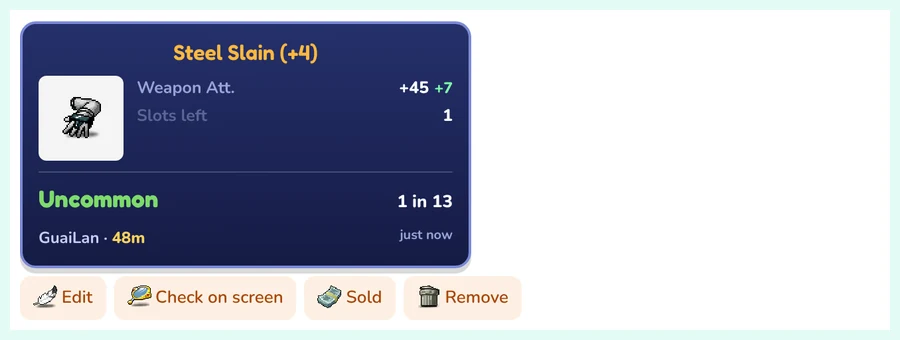
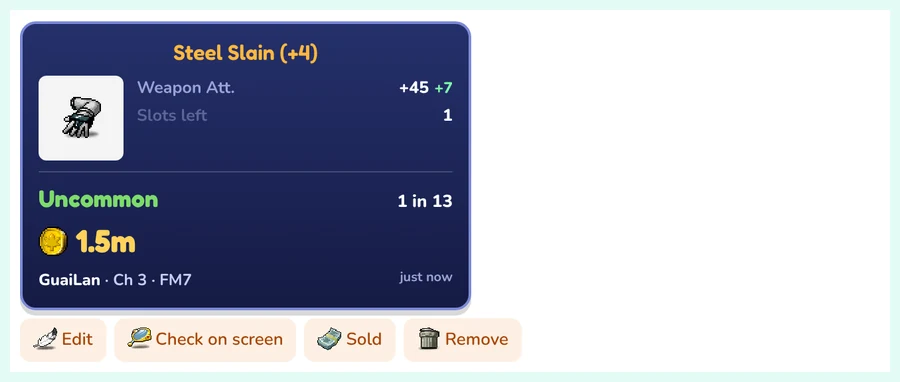
Examples priced at 2M at most; guide frames 5-8 show items with prices
Claude-Session: https://claude.ai/code/session_01YWJchjg2KLfMMoYE3h5SnD

diff --git a/js/app.js b/js/app.js
@@ -1,11 +1,11 @@
-import { iconUrl, DONATE_URL, DISCORD_URL } from "./config.js?v=61f49576";
-import { STATS, STAT_LABEL, statRange, rollAtLeast, finalStats, mesos, readPrice } from "./calc.js?v=61f49576";
-import { rarity, oneInText } from "./rarity.js?v=61f49576";
-import { drawCard, cardBlob } from "./card.js?v=61f49576";
-import { cardInfo, cardLabel, cardFmt } from "./itemcard.js?v=61f49576";
-import { itemSearch } from "./itemsearch.js?v=61f49576";
-import { setupA11y } from "./a11y.js?v=61f49576";
-import { API, api, health, me, googleButton, validIgn } from "./account.js?v=61f49576";
+import { iconUrl, DONATE_URL, DISCORD_URL } from "./config.js?v=ab52bd3e";
+import { STATS, STAT_LABEL, statRange, rollAtLeast, finalStats, mesos, readPrice } from "./calc.js?v=ab52bd3e";
+import { rarity, oneInText } from "./rarity.js?v=ab52bd3e";
+import { drawCard, cardBlob } from "./card.js?v=ab52bd3e";
+import { cardInfo, cardLabel, cardFmt } from "./itemcard.js?v=ab52bd3e";
+import { itemSearch } from "./itemsearch.js?v=ab52bd3e";
+import { setupA11y } from "./a11y.js?v=ab52bd3e";
+import { API, api, health, me, googleButton, validIgn } from "./account.js?v=ab52bd3e";
 
 const $ = (id) => document.getElementById(id);
 const icon = iconUrl;
@@ -539,14 +539,14 @@ function readHash() {
 // ---------- How it works: a short guide that plays real frames from the site ----------
 
 const GUIDE = [
-  ["assets/guide/1.webp?v=5", "1. Pick your item: upload a screenshot of it, or search it, or tap a category and a class to browse."],
-  ["assets/guide/2.webp?v=5", "2. Set its clean stats: what it had before any scroll. A roll above the default makes it rarer."],
-  ["assets/guide/3.webp?v=5", "3. Set the slots left and add the scrolls that passed. Failed ones are worked out for you."],
-  ["assets/guide/4.webp?v=5", "4. See how rare it is, from its natural roll and the way its scrolls passed, and save the card to share it."],
-  ["assets/guide/5.webp?v=5", "5. Post it: sign in with Google and post the item. Selling it? Add a price and where to find you (optional)."],
-  ["assets/guide/6.webp?v=5", "6. Browse items: everyone's posts, with their stats, slots and rarity. Filter by kind, class or stat, newest or rarest first."],
-  ["assets/guide/7.webp?v=5", "7. Tap an item to see its full card and who posted it. Checked on screen: the owner showed the item from the game."],
-  ["assets/guide/8.webp?v=5", "8. Under My items: check it on screen, edit it, mark it sold or remove it."],
+  ["assets/guide/1.webp?v=6", "1. Pick your item: upload a screenshot of it, or search it, or tap a category and a class to browse."],
+  ["assets/guide/2.webp?v=6", "2. Set its clean stats: what it had before any scroll. A roll above the default makes it rarer."],
+  ["assets/guide/3.webp?v=6", "3. Set the slots left and add the scrolls that passed. Failed ones are worked out for you."],
+  ["assets/guide/4.webp?v=6", "4. See how rare it is, from its natural roll and the way its scrolls passed, and save the card to share it."],
+  ["assets/guide/5.webp?v=6", "5. Post it: sign in with Google and post the item. Selling it? Add a price and where to find you (optional)."],
+  ["assets/guide/6.webp?v=6", "6. Browse items: everyone's posts with their price, stats and rarity. Filter by kind, rarity, stat or your own price range."],
+  ["assets/guide/7.webp?v=6", "7. Tap an item to see its full card and who posted it. Checked on screen: the owner showed the item from the game."],
+  ["assets/guide/8.webp?v=6", "8. Under My items: check it on screen, edit it, mark it sold or remove it."],
 ];
 const GUIDE_KEY = "fmcheck-guide-seen";
 let guideStep = 0, guideTimer = null;

diff --git a/js/community.js b/js/community.js
@@ -1,12 +1,12 @@
 // Browse items: scrolled items players posted, as cards with how rare each one is.
-import { STATS, STAT_LABEL, mesos, readPrice } from "./calc.js?v=61f49576";
-import { drawCard, cardBlob } from "./card.js?v=61f49576";
-import { cardInfo, cardLabel, cardFmt, cardDate } from "./itemcard.js?v=61f49576";
-import { rarity, oneInText } from "./rarity.js?v=61f49576";
-import { setupA11y } from "./a11y.js?v=61f49576";
-import { api, health, me, googleButton, signOut, validIgn, esc, ago, place, canSignIn } from "./account.js?v=61f49576";
-import { itemSearch } from "./itemsearch.js?v=61f49576";
-import { DISCORD_URL } from "./config.js?v=61f49576";
+import { STATS, STAT_LABEL, mesos, readPrice } from "./calc.js?v=ab52bd3e";
+import { drawCard, cardBlob } from "./card.js?v=ab52bd3e";
+import { cardInfo, cardLabel, cardFmt, cardDate } from "./itemcard.js?v=ab52bd3e";
+import { rarity, oneInText } from "./rarity.js?v=ab52bd3e";
+import { setupA11y } from "./a11y.js?v=ab52bd3e";
+import { api, health, me, googleButton, signOut, validIgn, esc, ago, place, canSignIn } from "./account.js?v=ab52bd3e";
+import { itemSearch } from "./itemsearch.js?v=ab52bd3e";
+import { DISCORD_URL } from "./config.js?v=ab52bd3e";
 
 const $ = (id) => document.getElementById(id);
 // a small MapleStory icon next to a label (assets/ui/)

diff --git a/js/admin.js b/js/admin.js
@@ -1,10 +1,10 @@
 // The price list page (admins): average prices of scrolls and clean items that estimates use when a player
 // leaves a price empty. Stored on the server (/api/prices); anyone can read them, only admins can change them.
-import { mesos, readPrice, UNITS } from "./calc.js?v=61f49576";
-import { setupA11y } from "./a11y.js?v=61f49576";
-import { api, me, googleButton, esc, canSignIn } from "./account.js?v=61f49576";
-import { iconUrl, priceLink } from "./config.js?v=61f49576";
-import { findPrices } from "./priceimport.js?v=61f49576";
+import { mesos, readPrice, UNITS } from "./calc.js?v=ab52bd3e";
+import { setupA11y } from "./a11y.js?v=ab52bd3e";
+import { api, me, googleButton, esc, canSignIn } from "./account.js?v=ab52bd3e";
+import { iconUrl, priceLink } from "./config.js?v=ab52bd3e";
+import { findPrices } from "./priceimport.js?v=ab52bd3e";
 
 const $ = (id) => document.getElementById(id);
 setupA11y();

diff --git a/js/shot.js b/js/shot.js
@@ -1,8 +1,8 @@
 // Reading a picture of an in-game item window (a screenshot, or a phone photo of the screen) in this browser.
 // The picture is never uploaded: it's read here with text recognition (js/verify.js loads the reader),
 // then js/itemread.js works out the item, its stats, slots left and the likeliest scrolls.
-import { recognizer } from "./verify.js?v=61f49576";
-import { parseWindow, findItem, guessScrolls } from "./itemread.js?v=61f49576";
+import { recognizer } from "./verify.js?v=ab52bd3e";
+import { parseWindow, findItem, guessScrolls } from "./itemread.js?v=ab52bd3e";
 
 // The picture drawn at a size the reader likes, as three versions: as it is (screenshots), white text only
 // (the stats, for photos of a screen) and yellow text only (the item's name).

diff --git a/index.html b/index.html
@@ -32,7 +32,7 @@
   <link rel="apple-touch-icon" href="assets/favicon-180.png" />
   <link rel="preload" href="assets/fonts/fredoka-latin-700-normal.woff2" as="font" type="font/woff2" crossorigin />
   <link rel="preload" href="assets/fonts/nunito-latin-600-normal.woff2" as="font" type="font/woff2" crossorigin />
-  <link rel="stylesheet" href="css/style.css?v=61f49576" />
+  <link rel="stylesheet" href="css/style.css?v=ab52bd3e" />
 </head>
 <body>
   <a class="skip" href="#itemSearch">Skip to posting an item</a>
@@ -280,6 +280,6 @@ natural roll = product over the stats above default</pre>
   </div>
 
 
-  <script type="module" src="js/app.js?v=61f49576"></script>
+  <script type="module" src="js/app.js?v=ab52bd3e"></script>
 </body>
 </html>

diff --git a/community.html b/community.html
@@ -23,7 +23,7 @@
   <link rel="apple-touch-icon" href="assets/favicon-180.png" />
   <link rel="preload" href="assets/fonts/fredoka-latin-700-normal.woff2" as="font" type="font/woff2" crossorigin />
   <link rel="preload" href="assets/fonts/nunito-latin-600-normal.woff2" as="font" type="font/woff2" crossorigin />
-  <link rel="stylesheet" href="css/style.css?v=61f49576" />
+  <link rel="stylesheet" href="css/style.css?v=ab52bd3e" />
 </head>
 <body>
   <a class="skip" href="#listings">Skip to the items</a>
@@ -194,6 +194,6 @@
   </div>
 
 
-  <script type="module" src="js/community.js?v=61f49576"></script>
+  <script type="module" src="js/community.js?v=ab52bd3e"></script>
 </body>
 </html>

diff --git a/js/verify.js b/js/verify.js
@@ -1,8 +1,8 @@
 // "Check it on screen": the seller shares the game window (the browser asks them first), hovers the item,
 // and this page reads the item's window with text recognition. Everything runs in this browser:
 // the picture is never uploaded. Only the numbers read (stats and slots left) go to FMCheck to compare.
-import { api, esc } from "./account.js?v=61f49576";
-import { GAME_LABEL, GAME_ORDER } from "./itemcard.js?v=61f49576";
+import { api, esc } from "./account.js?v=ab52bd3e";
+import { GAME_LABEL, GAME_ORDER } from "./itemcard.js?v=ab52bd3e";
 
 const $ = (id) => document.getElementById(id);
 const VENDOR = new URL("../assets/vendor/tesseract/", import.meta.url).href;

diff --git a/src/community.js b/src/community.js
@@ -56,7 +56,7 @@ const FLAG_MIN_AGE = 3 * DAY;      // reports count only from accounts this old,
 // rank below real items, are never posted or featured for real, and stop showing once DEMO_UNTIL real items are up.
 // Setting DEMO=off hides them at once.
 const DEMO_UNTIL = 30;
-const DEMO_VERSION = 5; // bump when src/demo.json changes
+const DEMO_VERSION = 6; // bump when src/demo.json changes
 const CROWD_MIN = 3;     // different players (per day) before their typed price goes in the list
 const CROWD_DAYS = 30;   // typed prices older than this are dropped
 const HIDE_AT_FLAGS = 3;           // reports from different players that hide an item

diff --git a/admin.html b/admin.html
@@ -15,7 +15,7 @@
   <link rel="apple-touch-icon" href="assets/favicon-180.png" />
   <link rel="preload" href="assets/fonts/fredoka-latin-700-normal.woff2" as="font" type="font/woff2" crossorigin />
   <link rel="preload" href="assets/fonts/nunito-latin-600-normal.woff2" as="font" type="font/woff2" crossorigin />
-  <link rel="stylesheet" href="css/style.css?v=61f49576" />
+  <link rel="stylesheet" href="css/style.css?v=ab52bd3e" />
 </head>
 <body>
   <header class="top">
@@ -57,6 +57,6 @@
   </div>
 
 
-  <script type="module" src="js/admin.js?v=61f49576"></script>
+  <script type="module" src="js/admin.js?v=ab52bd3e"></script>
 </body>
 </html>

diff --git a/js/itemcard.js b/js/itemcard.js
@@ -1,6 +1,6 @@
 // What goes on an item card (drawn by card.js), shared by the calculator and the community page.
-import { mesos } from "./calc.js?v=61f49576";
-import { oneInText as rareText } from "./rarity.js?v=61f49576";
+import { mesos } from "./calc.js?v=ab52bd3e";
+import { oneInText as rareText } from "./rarity.js?v=ab52bd3e";
 
 export const GAME_LABEL = { STR: "STR", DEX: "DEX", INT: "INT", LUK: "LUK", MHP: "MaxHP", MMP: "MaxMP", PAD: "Weapon Att.",
   MAD: "Magic Att.", PDD: "Weapon Def.", MDD: "Magic Def.", ACC: "Accuracy", EVA: "Avoidability", Speed: "Speed",

diff --git a/js/itemread.js b/js/itemread.js
@@ -5,7 +5,7 @@
 // "Weapon Def.: +117 (115 +2)", "Remaining Enhancements: 5". The number in brackets is the item's default stat
 // plus everything added since (the clean roll and the scrolls together), so the scrolls are worked out:
 // the passes (+1) must add up so that every clean stat is one a drop can roll.
-import { statRange } from "./calc.js?v=61f49576";
+import { statRange } from "./calc.js?v=ab52bd3e";
 
 const LABELS = [
   ["PAD", "weapon att"], ["MAD", "magic att"], ["PDD", "weapon def"], ["MDD", "magic def"],

diff --git a/js/itemsearch.js b/js/itemsearch.js
@@ -1,6 +1,6 @@
 // Item search shared by the calculator and the community page: category chips like the game's equip tabs,
 // a class filter, and a search box that suggests items (with their icons) as you type.
-import { iconUrl } from "./config.js?v=61f49576";
+import { iconUrl } from "./config.js?v=ab52bd3e";
 
 // Categories like the game's equip tabs. Icon = a typical item of that kind.
 export const CATS = [["", "All", null], ["Weapon", "Weapons", 1302000], ["Hat", "Hats", 1002012], ["Top", "Tops", 1040002],
